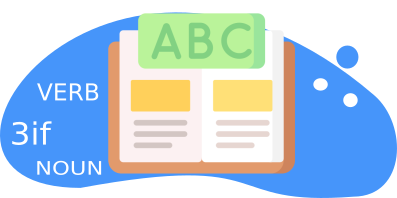
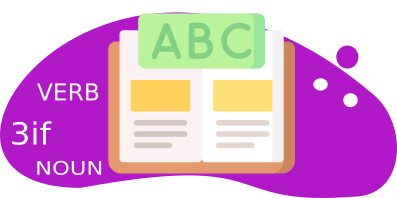
fix color and position for consistence

diff --git a/src/store/static.ts b/src/store/static.ts
@@ -34,8 +34,8 @@ import b3 from "../assets/sounds/pronunciation/Bá.mp3";
 import b4 from "../assets/sounds/pronunciation/Bã.mp3";
 export const converstation={
     promo:{
-        'title':'Let’s make learning <span style="color: #529312;" > Vietnamese language </span><span style="color:#ba4e4a" class="span_promo">fun</span> and <span style="color:#ba4e4a" class="span_promo">accessible</span>!',
-        'title_vietnamese':'Hãy làm cho việc học <span style="color: #529312" >Tiếng Việt</span> trở nên <span style="color:#ba4e4a" class="span_promo">thú vị</span> và <span style="color:#ba4e4a" class="span_promo">dễ tiếp cận</span>!',
+        'title':'Let’s make learning <span style="color: rgb(63 98 18)" > Vietnamese language </span><span style="color:#ba4e4a" class="span_promo">fun</span> and <span style="color:#ba4e4a" class="span_promo">accessible</span>!',
+        'title_vietnamese':'Hãy làm cho việc học <span style="color: rgb(63 98 18)" >Tiếng Việt</span> trở nên <span style="color:#ba4e4a" class="span_promo">thú vị</span> và <span style="color:#ba4e4a" class="span_promo">dễ tiếp cận</span>!',
         "subtitle":"Online Vietnamese language  in any place - all  for FREE! ...",
         'img': pioneers
     },
@@ -47,15 +47,15 @@ export const converstation={
         color:'text-[#FBE754]'
       },{
         id:2,
-        src:grammar,
-        title:"Translate",
-        text: "Learn about grammar and doing grammar exercises",
-        color:'text-[#4695FA]'
-      },{
-        id:3,
         src:practice,
         title:"Practice",
         text: "Memorize new words with the help of tests in a playful way",
+        color:'text-sky-500'
+      },{
+        id:3,
+        src:grammar,
+        title:"Understand",
+        text: "Learn about grammar and doing grammar exercises",
         color:'text-[#B018C8]'
       }],
     lessons:{
@@ -242,7 +242,7 @@ export const converstation={
   ]
     },
     demo_test:{
-      'title':'Memorization your',
+      'title':'Practice and memorise your',
       'subtitle':'words'
     }
 }

diff --git a/src/screens/landing/section/Promo.tsx b/src/screens/landing/section/Promo.tsx
@@ -29,7 +29,7 @@ function Promo() {
             fontcolorsecondary='text-stone-500'
           > 
           {converstation.promo.subtitle.slice(0,6)}
-            <span className="font-['Mochiy'] text-[#529312]">
+            <span className="font-['Mochiy'] text-lime-800">
             {converstation.promo.subtitle.slice(6,27)}
             </span>
           {converstation.promo.subtitle.slice(27,52)}
@@ -39,8 +39,8 @@ function Promo() {
           {converstation.promo.subtitle.slice(56,converstation.promo.subtitle.length)}
           </H2>
           <div className="flex justify-center">
-            <Link to="/landing#demo_audio" className="border-2 border-[#529312]  hover:border-lime-800 rounded-lg  m-5 p-2 text-xl  text-[#529312] hover:text-lime-800 font-['KGLifeisMessy'] ">listen sound</Link>
-            <Link to="/landing#demo_test" className="border-2 border-[#1572E0] hover:border-blue-800 rounded-lg m-5 p-2 text-xl text-[#1572E0]  hover:text-blue-800 font-['KGLifeisMessy']">start learning</Link>
+            <Link to="/landing#demo_audio" className="border-2 border-lime-500  hover:border-lime-800 rounded-lg  m-5 p-2 text-xl  text-lime-500 hover:text-lime-800 font-['KGLifeisMessy'] ">listen sound</Link>
+            <Link to="/landing#demo_test" className="border-2 border-sky-500 hover:border-sky-800 rounded-lg m-5 p-2 text-xl text-sky-500  hover:text-sky-800 font-['KGLifeisMessy']">start learning</Link>
           </div>
         
 

diff --git a/src/screens/main/header/header.tsx b/src/screens/main/header/header.tsx
@@ -71,8 +71,8 @@ function Header() {
    
         <div className="sm:text-center">
 
-          <Link to="/landing#words" className="mr-4  text-2xl text-[#1572E0] hover:text-blue-800 ">words</Link>
-          <Link to="/landing#audio" className="pr-4 text-2xl text-[#529312] hover:text-lime-800 ">audio</Link>
+          <Link to="/landing#words" className="mr-4  text-2xl text-sky-500 hover:text-sky-800 ">words</Link>
+          <Link to="/landing#audio" className="pr-4 text-2xl text-lime-500 hover:text-lime-800 ">audio</Link>
           <Link to="/landing#translate" className="pr-4 text-2xl text-[#DA0C0C] hover:text-rose-800 ">translate</Link>
         </div> 
 

diff --git a/src/screens/landing/section/demo-audio/index.tsx b/src/screens/landing/section/demo-audio/index.tsx
@@ -25,12 +25,12 @@ const DemoAudio = (props:{id?:string;}) => {
         <H2
           children={converstation.demo_audio.title}
           fontsizeprimary="lg:h2-font-size-primary sm:h2-font-size-secondary"
-          fontcolorsecondary='text-yellow-500'
+          fontcolorsecondary='text-[#FBE754]'
         />
         <H2
           children={converstation.demo_audio.subtitle}
           fontsizeprimary="lg:leading-[10rem] lg:h2-font-size-primary  sm:h2-font-size-secondary"
-          fontcolorsecondary='text-[#529312]'
+          fontcolorsecondary='text-lime-800'
           fontfamilysecondary="font-['KGLifeisMessy']"
         />
  

diff --git a/src/screens/landing/section/demo-test/index.tsx b/src/screens/landing/section/demo-test/index.tsx
@@ -9,11 +9,11 @@ const DemoTest = (props:{id?:string;}) => {
            
   return (
     <Section>
-      <div className="text-center" id={props.id}>
+      <div className="text-center pt-20" id={props.id}>
           <H2
             children={converstation.demo_test.title}
             fontsizeprimary="lg:h2-font-size-primary sm:h2-font-size-secondary"
-            fontcolorsecondary='text-yellow-500'
+            fontcolorsecondary='text-sky-500'
           />
           <H2
             children={converstation.demo_test.subtitle}
